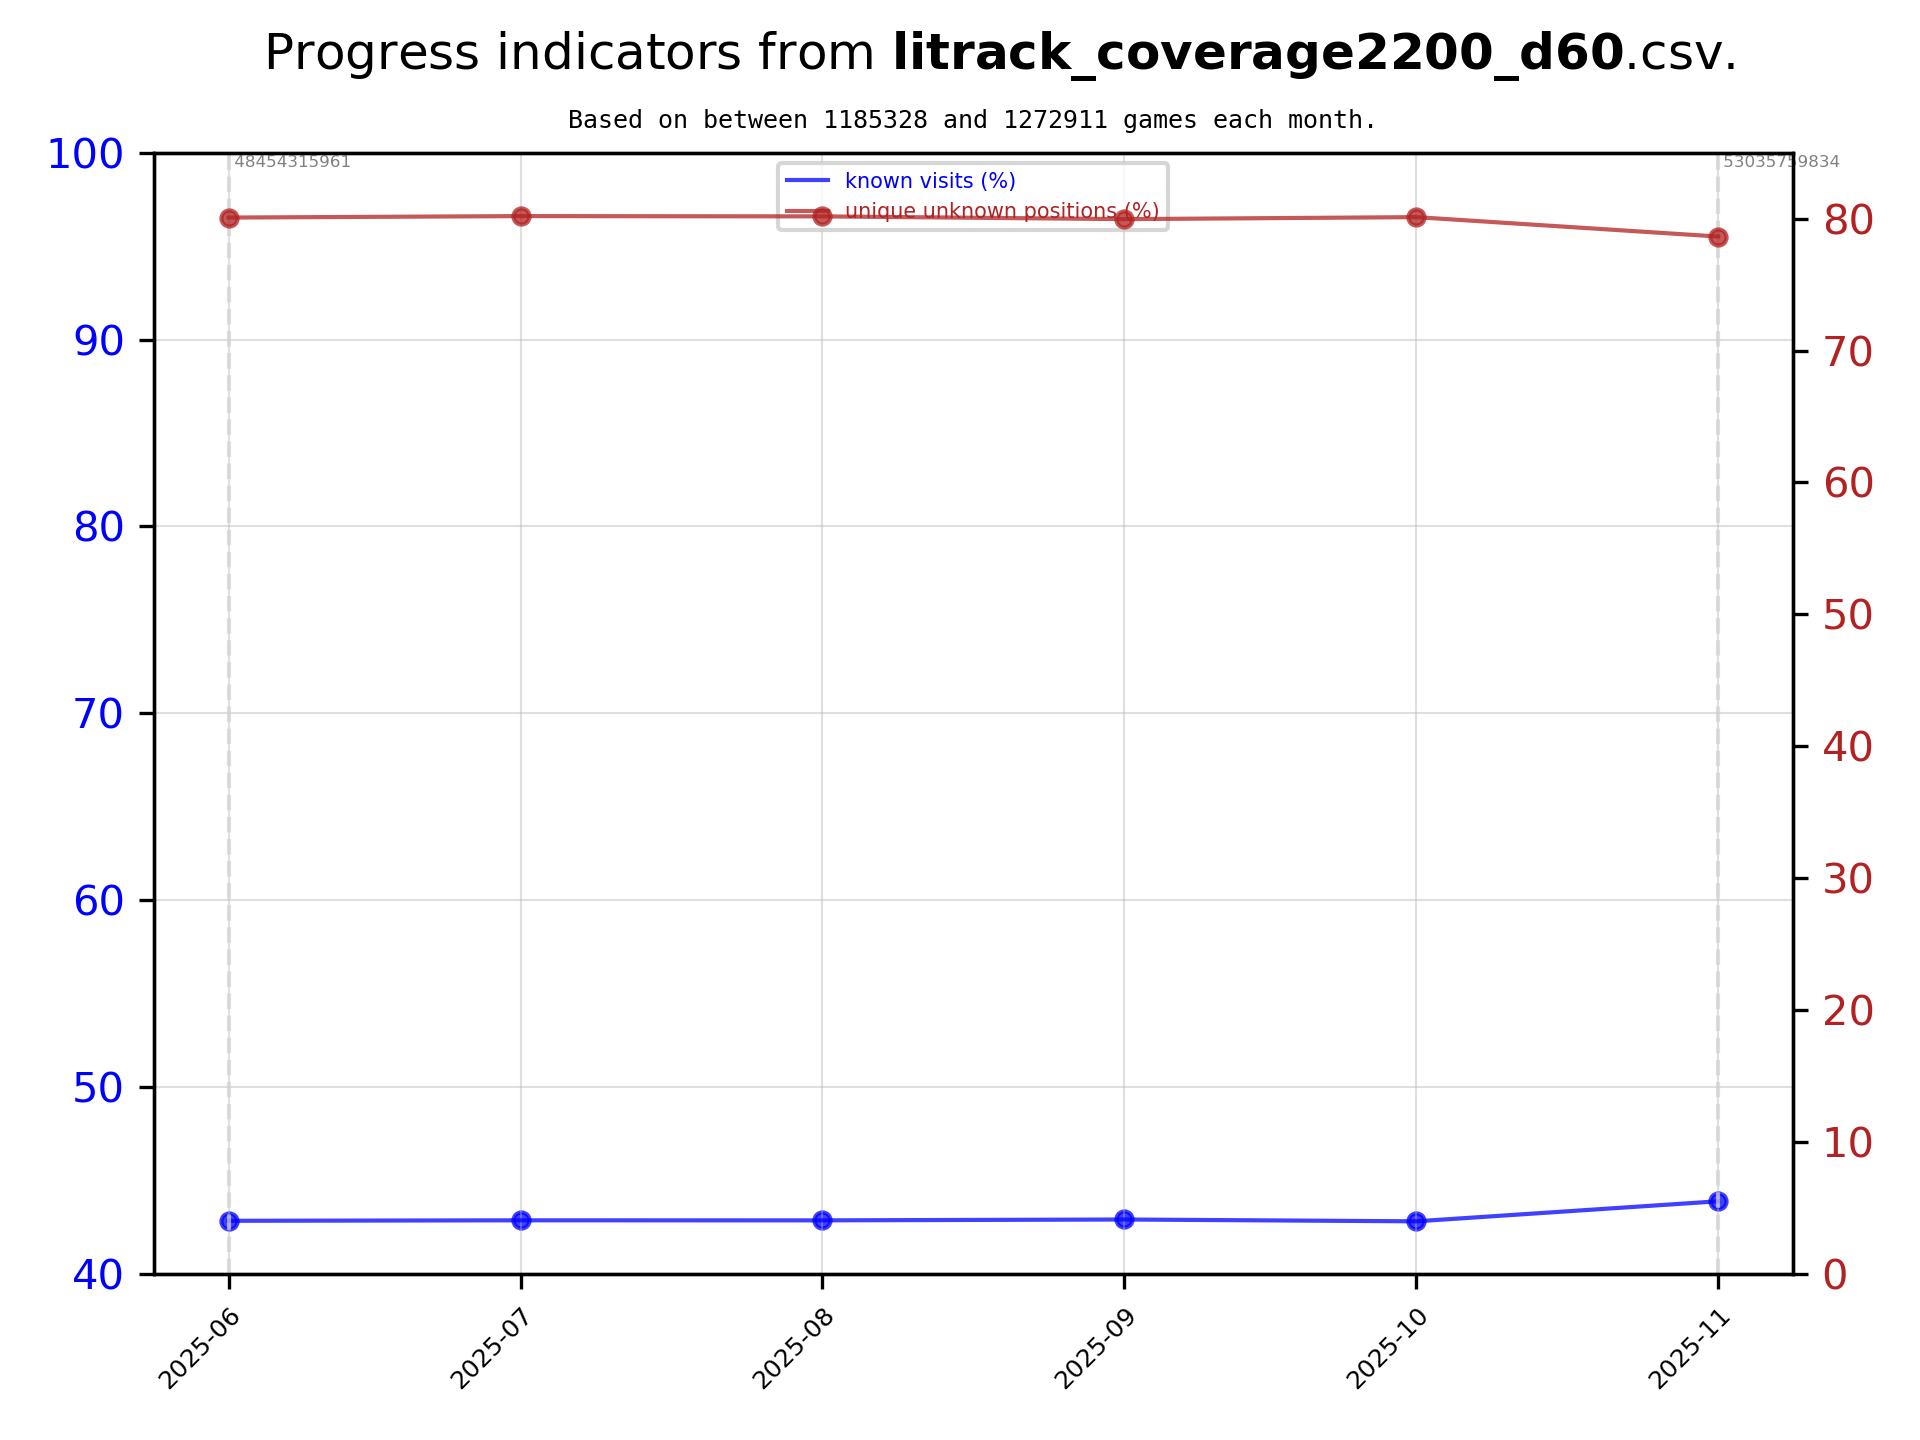
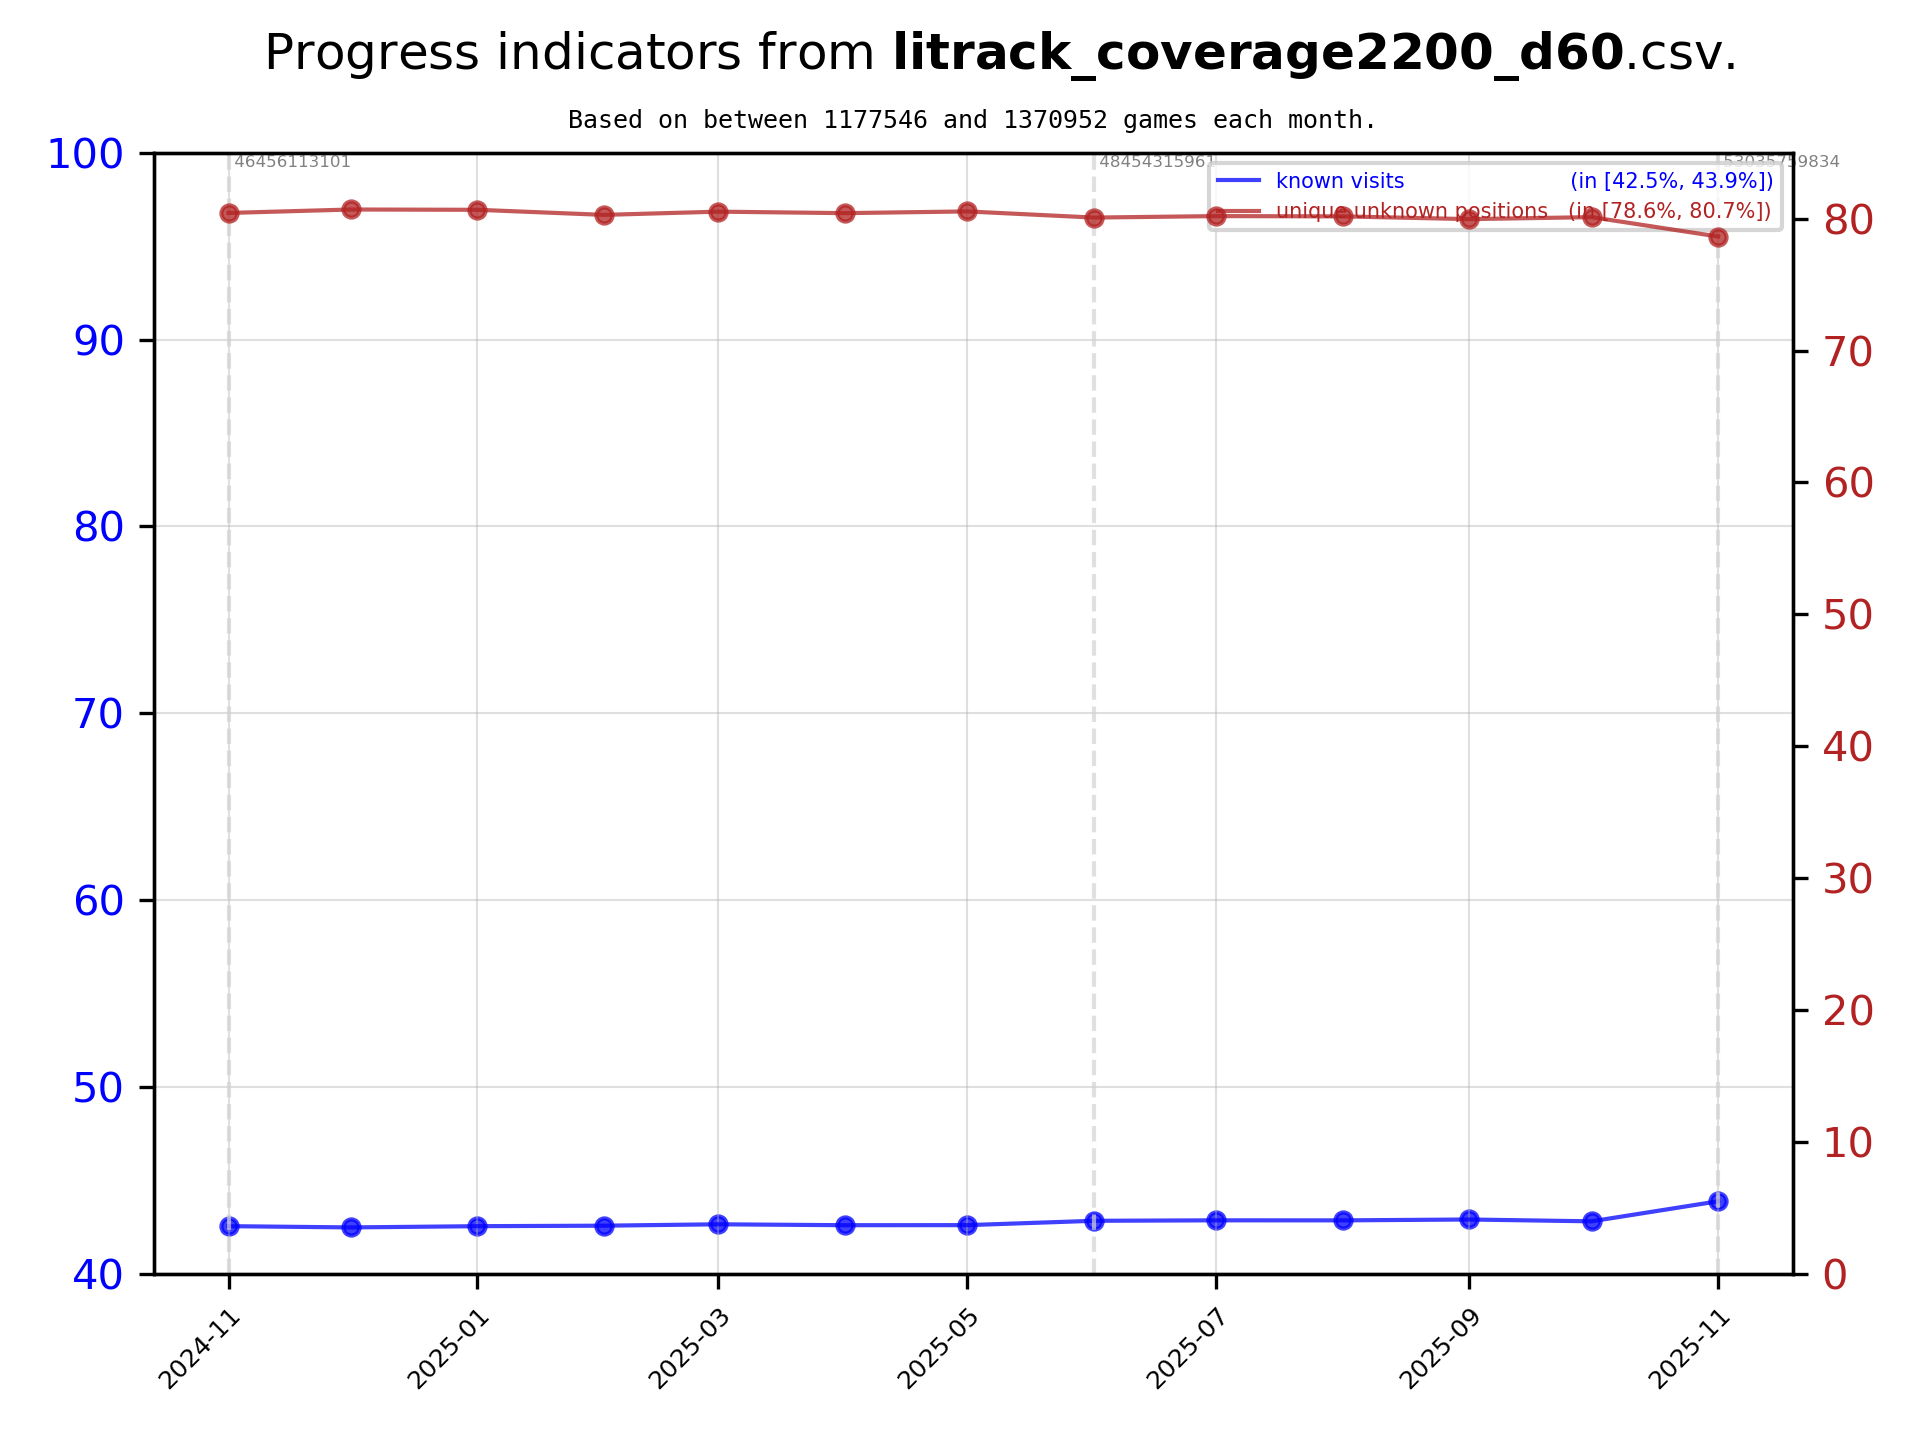
update plots

diff --git a/plotcoverage.py b/plotcoverage.py
@@ -48,22 +48,28 @@ class coveragedata:
         ax.scatter(
             dateData, nodesData, color=nodesColor, s=nodesDotSize, alpha=nodesAlpha
         )
+        mi, ma = min(nodesData), max(nodesData)
+        mi, ma = round(mi * 10) / 10, round(ma * 10) / 10
+        rangeStr = f"[{mi}%, {ma}%]"
         ax.plot(
             dateData,
             nodesData,
             color=nodesColor,
             linewidth=nodesLineWidth,
             alpha=nodesAlpha,
-            label="known visits (%)",
+            label=f"known visits                         (in {rangeStr})",
         )
         ax2.scatter(dateData, posData, color=posColor, s=nodesDotSize, alpha=nodesAlpha)
+        mi, ma = min(posData), max(posData)
+        mi, ma = round(mi * 10) / 10, round(ma * 10) / 10
+        rangeStr = f"[{mi}%, {ma}%]"
         ax2.plot(
             dateData,
             posData,
             color=posColor,
             linewidth=nodesLineWidth,
             alpha=nodesAlpha,
-            label="unique unknown positions (%)",
+            label=f"unique unknown positions   (in {rangeStr})",
         )
         ax.tick_params(axis="y", labelcolor=nodesColor)
         ax2.tick_params(axis="y", labelcolor=posColor)
